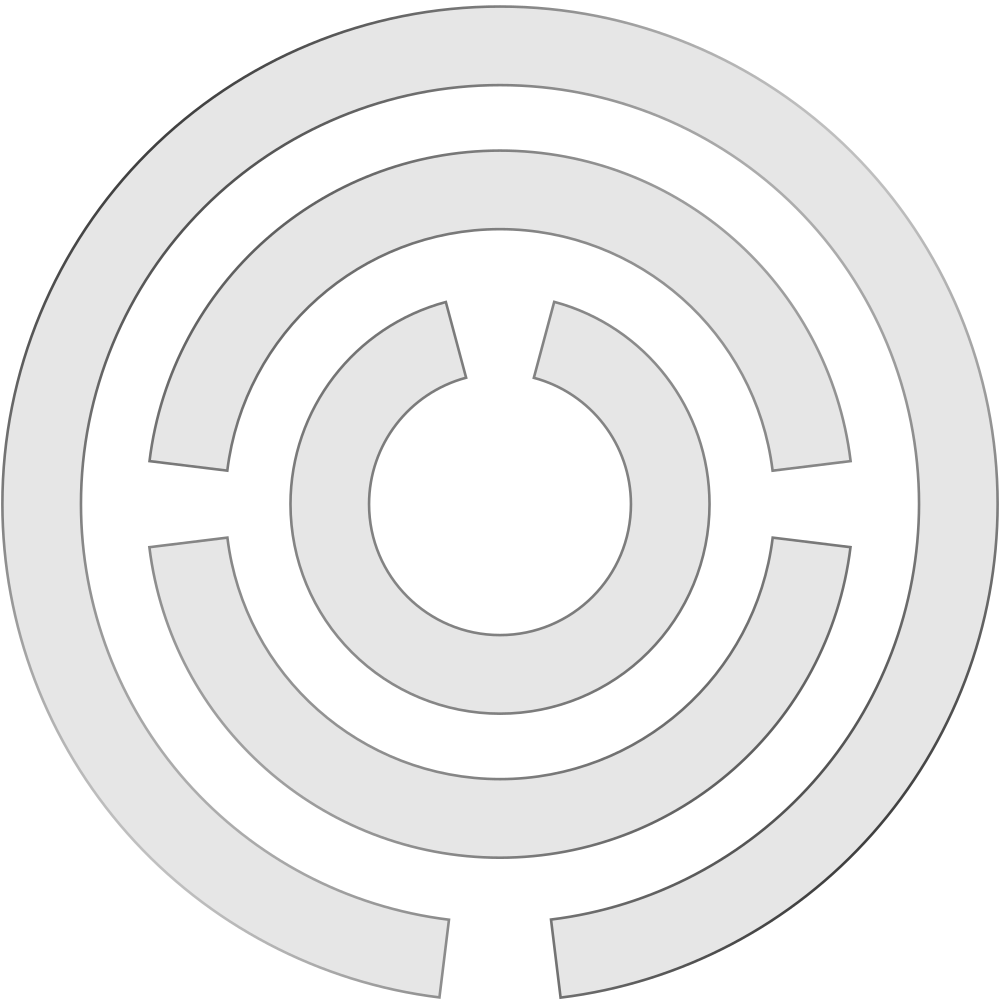
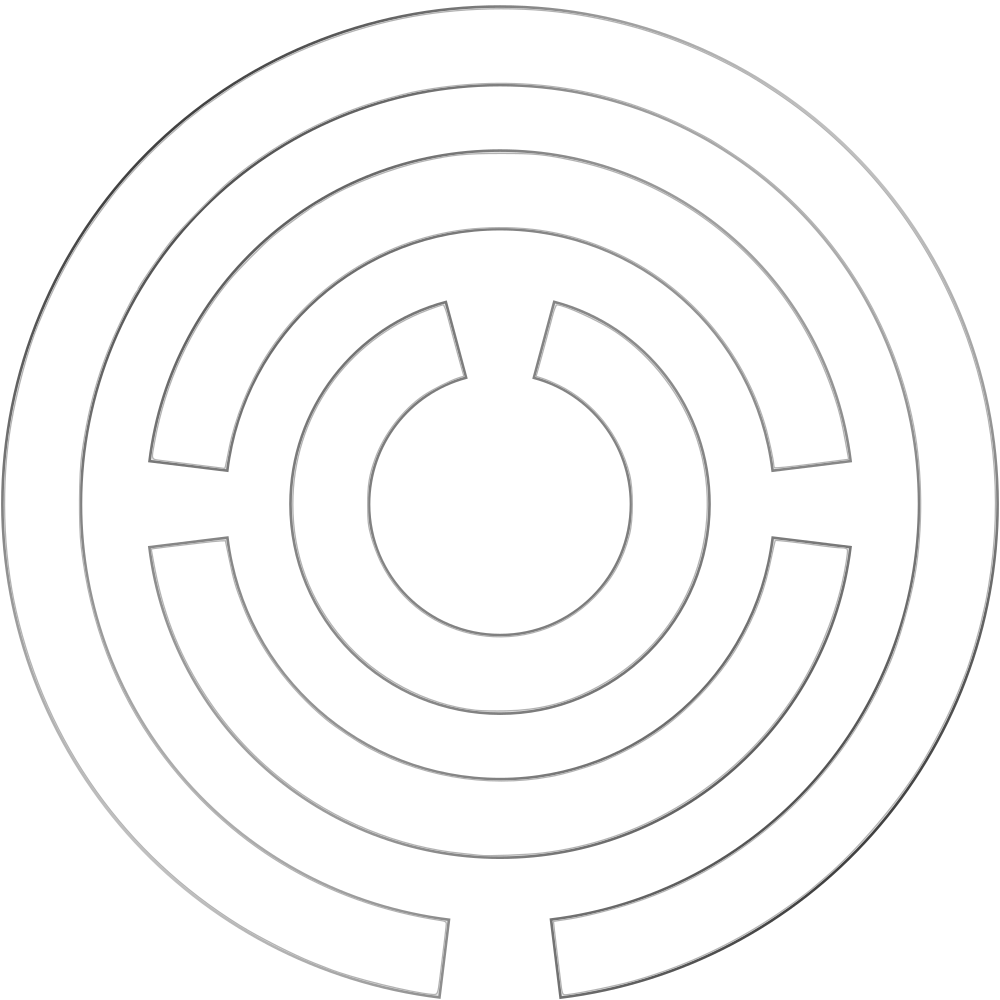
Replacing some gui images

diff --git a/lemapi_desktop/widget.py b/lemapi_desktop/widget.py
@@ -19,8 +19,6 @@ from os.path import join
 class App_widget(Menu_widget, Eventable_widget):
 
     DEFAULT_KWARGS = {
-        "backgroundImage": join(Path.GUI, "app_frame.png"),
-        "backgroundBorderSize": 30,
         "size": (300, 80)
     }
 
@@ -94,7 +92,6 @@ class Splash_labyrinth(Widget):
                 self.gui.draw_image(surface, (x, y))
             self.last_time = time.time()
         super().update()
-
 
 
 class App_group(Eventable_widget):
@@ -259,5 +256,18 @@ class Clock_widget(Text):
         super().update()
 
 
-class Notif_widget(Menu_widget):
-    pass
+class App_descriptor(Menu_widget):
+
+    DEFAULT_KWARGS = {
+        "size": (150, 150)
+    }
+
+    def __init__(self, gui, pos, app, **kwargs):
+        App_descriptor.updateDefaultKwargs(kwargs)
+        super().__init__(gui, pos, **kwargs)
+
+        self.app = app
+
+    def initWidgets(self):
+        w, h = self.kwargs["size"]
+        self.addSubWidget("title_text", Text, ())

diff --git a/lemapi_desktop/activity.py b/lemapi_desktop/activity.py
@@ -3,7 +3,7 @@
 from lemapi_desktop.util import load_images, load_sounds, load_musics, \
     load_settings, exit
 from lemapi_desktop.view import Desktop_view
-from lemapi_desktop.widget import App_widget, Notif_widget
+from lemapi_desktop.widget import App_widget
 
 __author__ = "Julien Dubois"
 __version__ = "0.1.0"
@@ -135,6 +135,3 @@ class Desktop_activity(Activity):
                 app, anchor=(0, 0))
             self.view.add_app(wname)
         self.view.reset_angle()
-
-    def add_notif(self, title, msg):
-        self.view.add_widget("notif", Notif_widget, (0, 0), title, msg)

diff --git a/lemapi/widget.py b/lemapi/widget.py
@@ -628,7 +628,7 @@ class Menu_widget(Widget):
 
 	DEFAULT_KWARGS = {
 		"backgroundImage": join(Path.GUI, "frame.png"),
-		"backgroundBorderSize": 0
+		"backgroundBorderSize": 16
 	}
 
 	def __init__(self, gui, pos, **kwargs):
